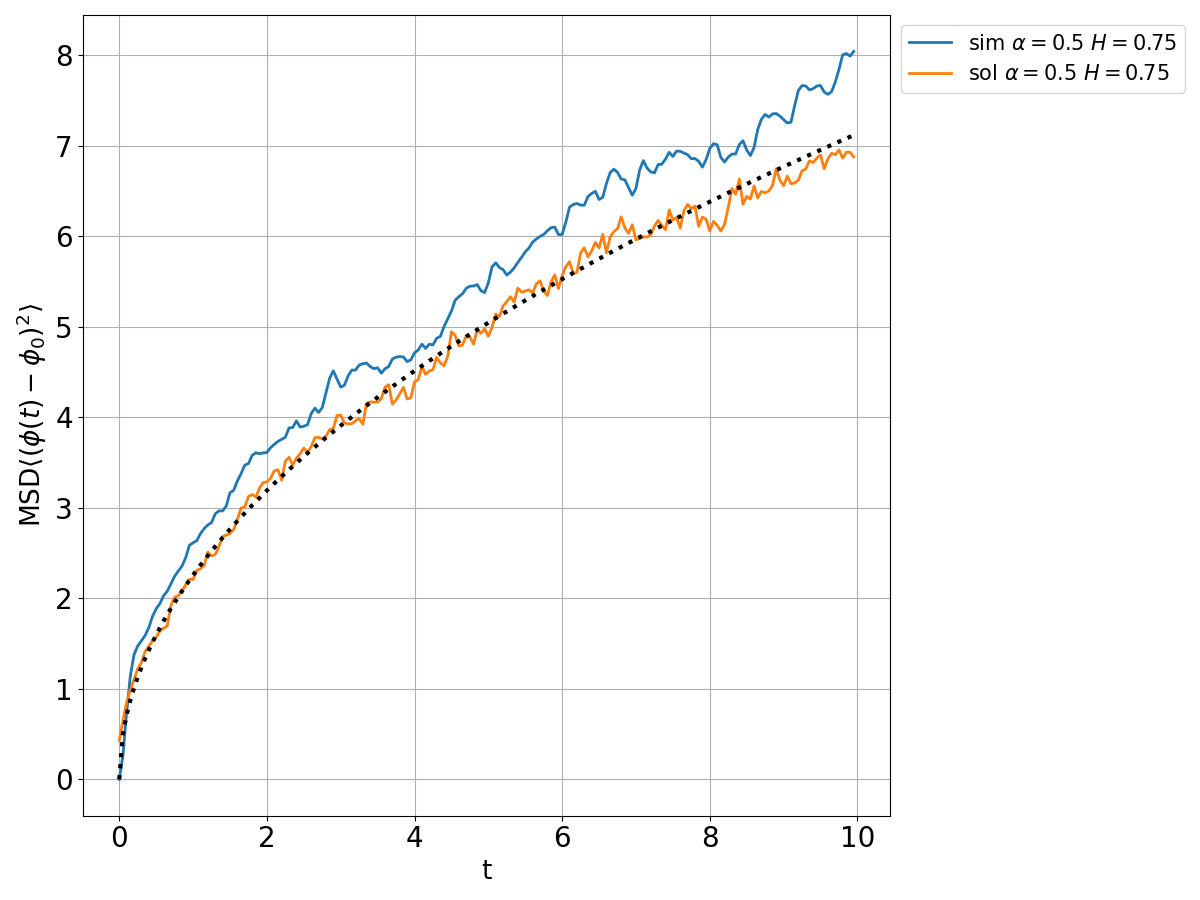
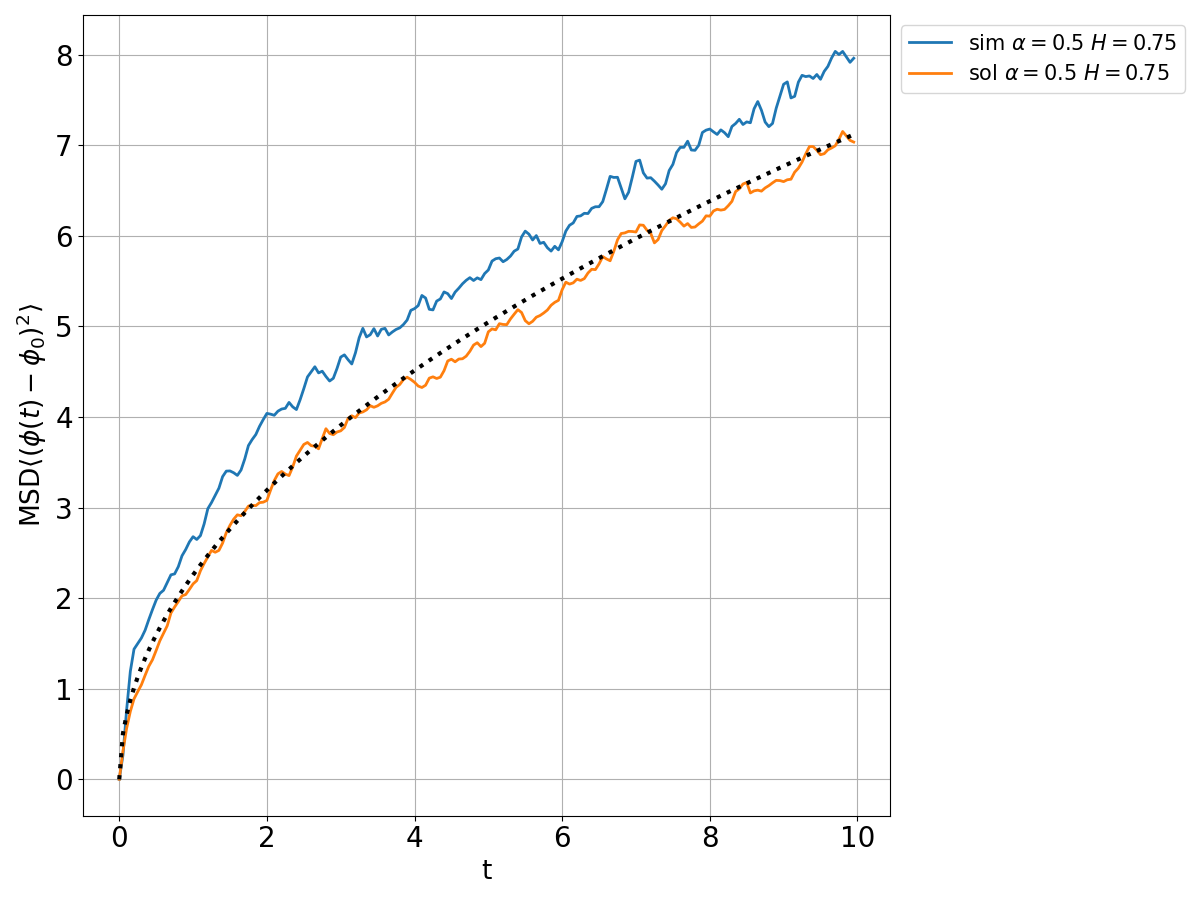
changed conv algorithm with L1 type discretization, working better now.

Changed region(s): [[0.0925, 0.1244, 0.74, 0.84], [0.6475, 0.0622, 0.7092, 0.1244]]

diff --git a/src/integration.py b/src/integration.py
@@ -47,17 +47,36 @@ def convolution_by_parts(relax_primitive, d2BH, dBH, t):
             
     return conv_bparts
 
+# def convolution_weights(dBH, t, alpha):
+#     dt = t[1] - t[0]
+#     N = len(t)
+#     conv = np.zeros(N)
+
+#     weights = np.array([
+#         ((k+1)**alpha - k**alpha) for k in range(N)
+#     ]) * (dt**alpha / gamma(alpha + 1))
+
+#     for n in range(N):
+#         conv[n] = np.sum(weights[:n+1][::-1] * dBH[:n+1])
+
+#     return conv
+
+def cnj(k, alpha):
+    return (k+1)**(alpha) - k**(alpha)
+
 def convolution_weights(dBH, t, alpha):
     dt = t[1] - t[0]
     N = len(t)
     conv = np.zeros(N)
 
-    weights = np.array([
-        ((k+1)**alpha - k**alpha) for k in range(N)
-    ]) * (dt**alpha / gamma(alpha + 1))
+    for time in range(1, N):
+            
+            # Sum term
+            sum_term = 0
+            for i in range(1, time+1):
+                
+                sum_term += cnj(time-i, alpha) * (dBH[i-1] + dBH[i])/2
 
-
-    for n in range(N):
-        conv[n] = np.sum(weights[:n+1][::-1] * dBH[:n+1])
+            conv[time] = (dt**alpha)*sum_term/gamma(alpha+1)
 
     return conv
